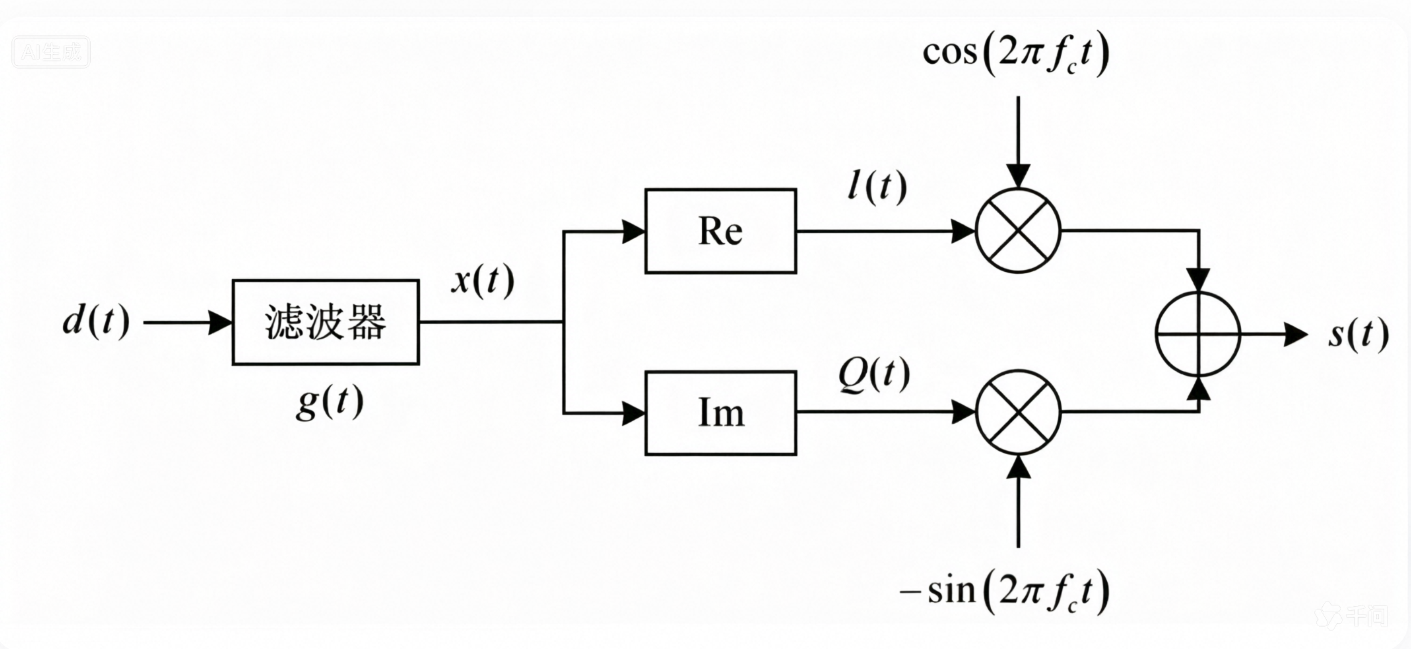
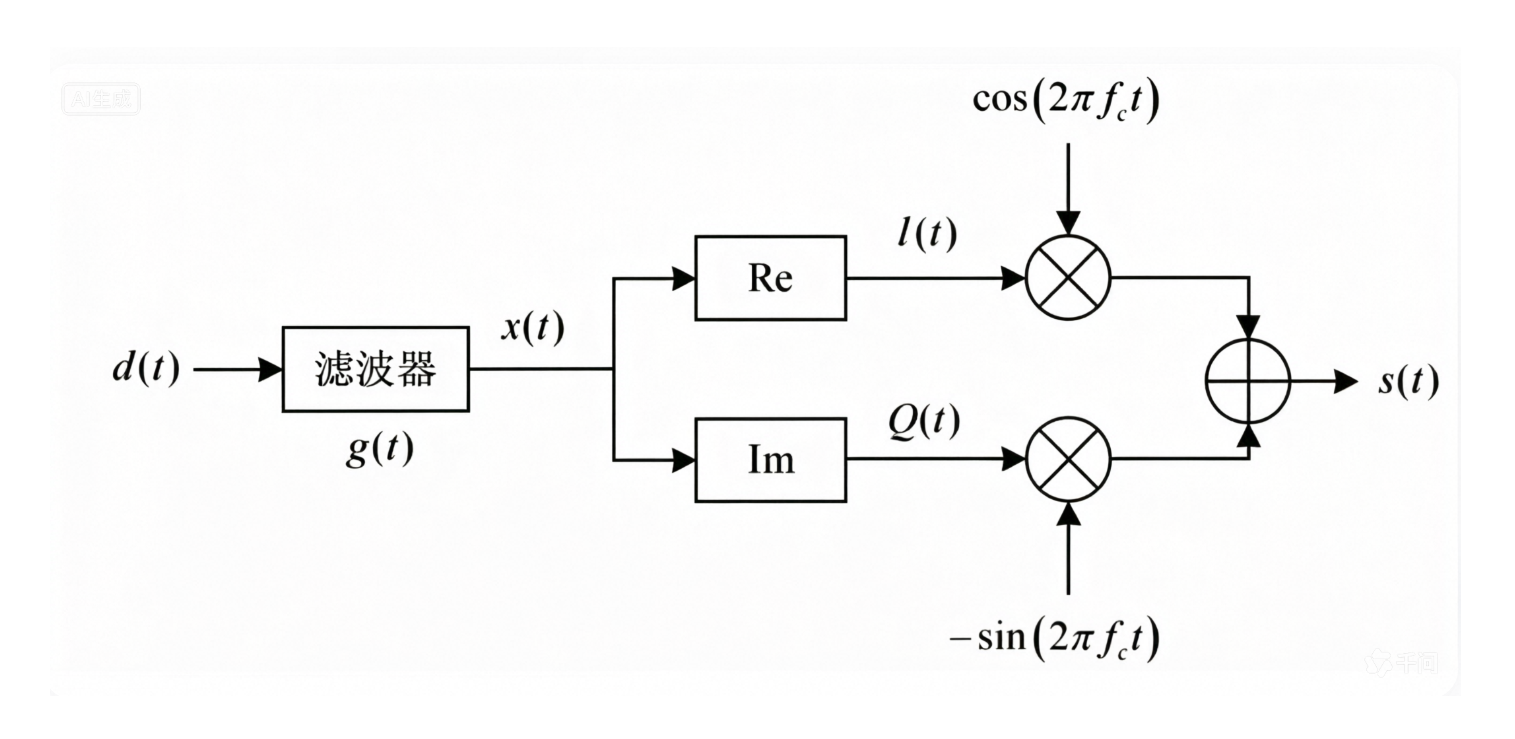
fix(2026): 图件 PNG 四周留白垫到 5% 图宽（pad_png_margin.py，含题图），规范写进 skill

Changed region(s): [[0.0312, 0.0308, 0.9979, 0.9553]]

diff --git a/data/figures/2026/_index.js b/data/figures/2026/_index.js
@@ -6,11 +6,11 @@ window.BUPT801 = window.BUPT801 || {};
 window.BUPT801.figures = window.BUPT801.figures || {};
 window.BUPT801.figureMeta = window.BUPT801.figureMeta || {};
 
-(window.BUPT801.figures["2026"] = window.BUPT801.figures["2026"] || {}).q2psd = { src: '/data/images/2026/answer/2026-二-q2psd.png', w: 1512, h: 322 };
-(window.BUPT801.figures["2026"] = window.BUPT801.figures["2026"] || {}).q3recv = { src: '/data/images/2026/2026-三-q3recv.png', w: 1362, h: 387 };
-(window.BUPT801.figures["2026"] = window.BUPT801.figures["2026"] || {}).q5stem = { src: '/data/images/2026/2026-五-q5stem.png', w: 1273, h: 1114 };
-(window.BUPT801.figures["2026"] = window.BUPT801.figures["2026"] || {}).q5const = { src: '/data/images/2026/answer/2026-五-q5const.png', w: 1350, h: 1120 };
-(window.BUPT801.figures["2026"] = window.BUPT801.figures["2026"] || {}).q6block = { src: '/data/images/2026/2026-六-q6block.png', w: 1411, h: 649 };
+(window.BUPT801.figures["2026"] = window.BUPT801.figures["2026"] || {}).q2psd = { src: '/data/images/2026/answer/2026-二-q2psd.png', w: 1680, h: 490 };
+(window.BUPT801.figures["2026"] = window.BUPT801.figures["2026"] || {}).q3recv = { src: '/data/images/2026/2026-三-q3recv.png', w: 1392, h: 443 };
+(window.BUPT801.figures["2026"] = window.BUPT801.figures["2026"] || {}).q5stem = { src: '/data/images/2026/2026-五-q5stem.png', w: 1372, h: 1199 };
+(window.BUPT801.figures["2026"] = window.BUPT801.figures["2026"] || {}).q5const = { src: '/data/images/2026/answer/2026-五-q5const.png', w: 1458, h: 1180 };
+(window.BUPT801.figures["2026"] = window.BUPT801.figures["2026"] || {}).q6block = { src: '/data/images/2026/2026-六-q6block.png', w: 1515, h: 739 };
 
 (window.BUPT801.figureMeta["2026"] = window.BUPT801.figureMeta["2026"] || {}).q2psd = { q: "题二", kind: "answer", desc: "功率谱" };
 (window.BUPT801.figureMeta["2026"] = window.BUPT801.figureMeta["2026"] || {}).q3recv = { q: "题三", kind: "paper", desc: "相关接收机框图" };

diff --git a/tools/pad_png_margin.py b/tools/pad_png_margin.py
@@ -1,0 +1,80 @@
+#!/usr/bin/env python
+"""给截图 PNG 的四周垫白边，垫到每边内容离边 ≥ pct×图宽（只加白边、不裁内容、不挪已达标边）。
+
+背景：截图按墨迹紧裁，内容会贴到图块边缘（2026-二-q2psd 四边全 0）。位图外壳只给
+18 个 viewBox 单位的留白，所以白边要在 PNG 内部垫够。SVG 图不用这个——tighten(PAD=18) 已保证。
+
+用法：
+  python tools/pad_png_margin.py data/images/2026 [更多文件或目录...] [--pct 0.05]
+幂等：已达标（某边 ≥ 目标）的边不再垫；重复跑不会再变。
+改完记得 node tools/emit_figures.mjs <年> --rebuild 重建注册表（w/h 变了）。
+"""
+import sys, os, glob
+from PIL import Image, ImageChops
+
+PCT = 0.05
+THRESH = 24  # 与该 RGB 均值差超过此值算"墨迹"
+
+def content_bbox(im):
+    bg = Image.new('RGB', im.size, (255, 255, 255))
+    diff = ImageChops.difference(im.convert('RGB'), bg).convert('L')
+    return diff.point(lambda x: 255 if x > THRESH else 0).getbbox()
+
+def pad_file(path, pct):
+    im = Image.open(path)
+    if im.mode in ('RGBA', 'LA') or (im.mode == 'P' and 'transparency' in im.info):
+        im = im.convert('RGBA')
+        bg = Image.new('RGBA', im.size, (255, 255, 255, 255))
+        im = Image.alpha_composite(bg, im).convert('RGB')
+    else:
+        im = im.convert('RGB')
+    w, h = im.size
+    bbox = content_bbox(im)
+    if not bbox:
+        print(f"  跳过（纯白/无内容）: {path}")
+        return False
+    l, t, r, b = bbox
+    cw, chh = r - l, b - t
+    # 反解：垫完后要满足 tx = pct*(cw + 2*tx)，即 tx = pct*cw/(1-2pct)，
+    # 这样重复跑不会再长（否则目标按新图宽算会每次都差一点、无限微增）
+    tx = max(1, round(pct * cw / (1 - 2 * pct)))
+    ty = tx  # 上下也按图宽口径，和 2025 年一致
+    add = (max(0, tx - l), max(0, ty - t), max(0, tx - (w - r)), max(0, ty - (h - b)))
+    if not any(add):
+        print(f"  已达标不动: {os.path.basename(path)}  {w}x{h}  L={l} T={t} R={w-r} B={h-b}")
+        return False
+    nw, nh = w + add[0] + add[2], h + add[1] + add[3]
+    out = Image.new('RGB', (nw, nh), (255, 255, 255))
+    out.paste(im, (add[0], add[1]))
+    out.save(path)
+    nl, nt, nr, nb = l + add[0], t + add[1], (w - r) + add[2], (h - b) + add[3]
+    print(f"  {os.path.basename(path)}: {w}x{h} → {nw}x{nh}  "
+          f"L={l}→{nl} T={t}→{nt} R={w-r}→{nr} B={h-b}→{nb}")
+    return True
+
+def main():
+    args = sys.argv[1:]
+    pct = PCT
+    if '--pct' in args:
+        i = args.index('--pct')
+        pct = float(args[i + 1])
+        del args[i:i + 2]
+    files = []
+    for a in args:
+        if os.path.isdir(a):
+            files += glob.glob(os.path.join(a, '*.png')) + glob.glob(os.path.join(a, 'answer', '*.png'))
+        elif a.lower().endswith('.png'):
+            files.append(a)
+        else:
+            print(f"忽略非 png: {a}")
+    if not files:
+        print(__doc__)
+        return 1
+    print(f"目标留白: 每边 ≥ {pct:.0%} 图宽")
+    changed = [f for f in sorted(set(files)) if pad_file(f, pct)]
+    print(f"共 {len(files)} 张，垫了 {len(changed)} 张。"
+          + ("记得 node tools/emit_figures.mjs <年> --rebuild" if changed else ""))
+    return 0
+
+if __name__ == '__main__':
+    sys.exit(main())
